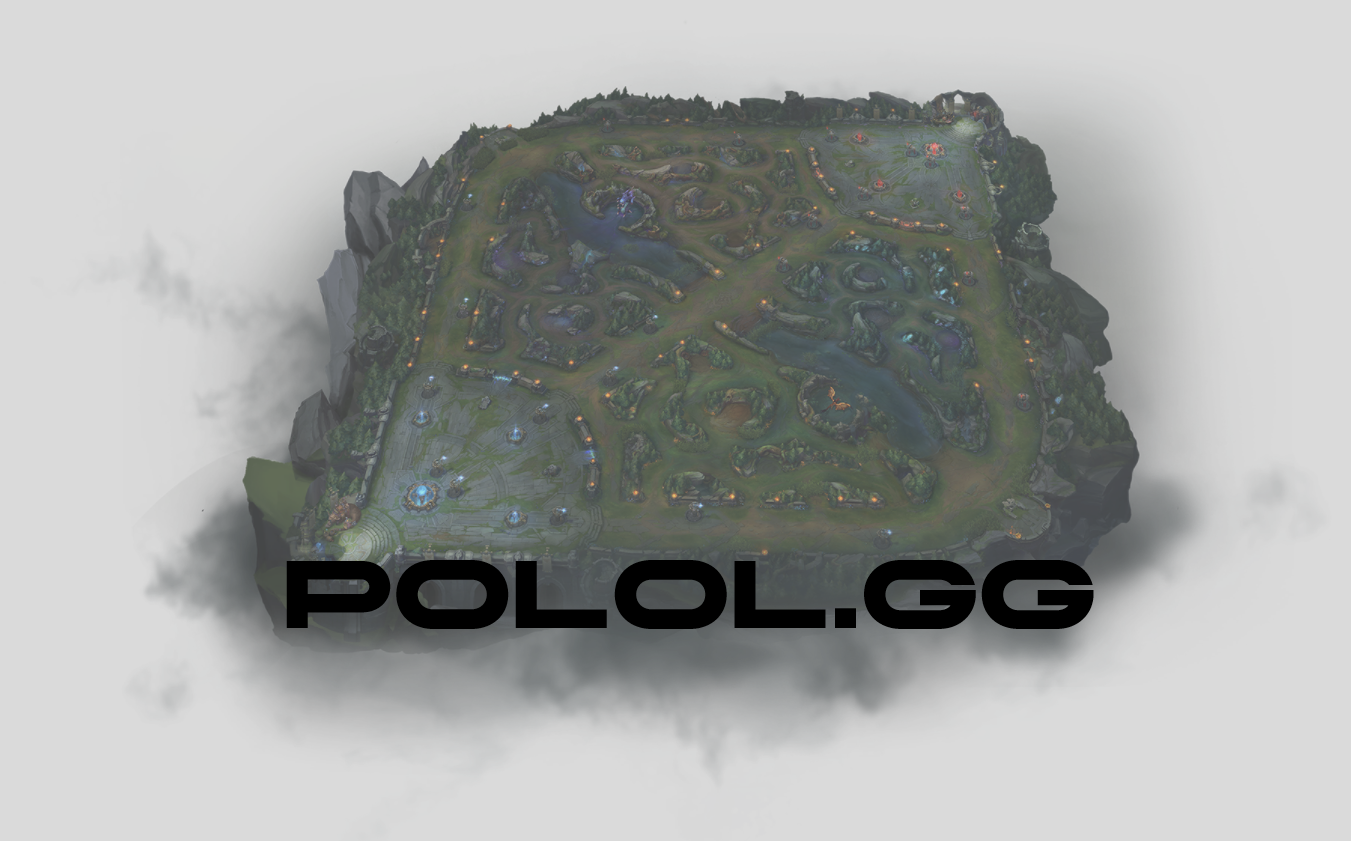
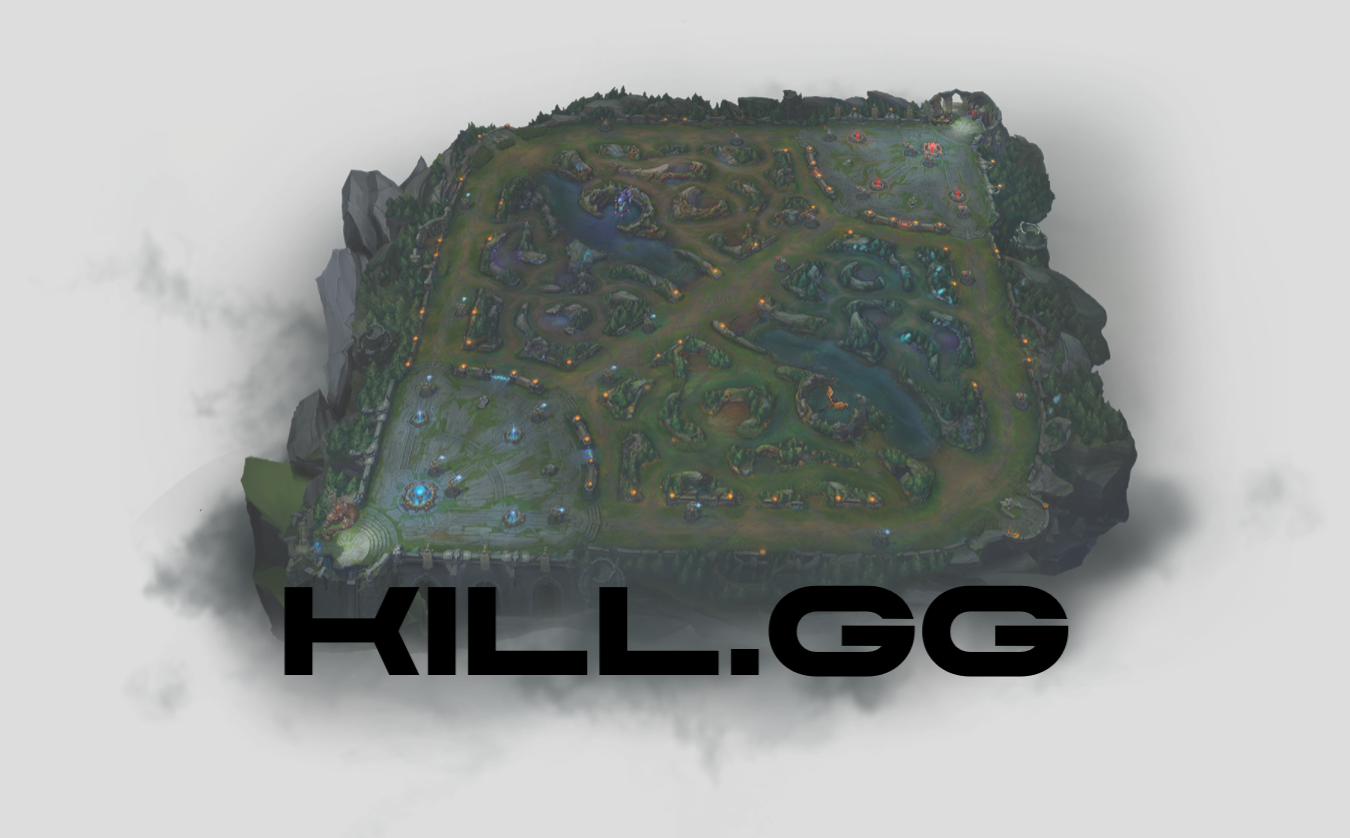
0212
LastChangeToday

diff --git a/src/Components/rank/Table.css b/src/Components/rank/Table.css
@@ -12,12 +12,12 @@
 }
 
 body {
-  background: #dadada;
+  background: #dddddd;
 }
 
 .T_BG {
   display: grid;
-  background: #dadada;
+  background: #dddddd;
   padding-top: 3rem;
   /* justify-content: space-between; */
   align-items: center;
@@ -40,36 +40,36 @@ body {
   transition: 1s;
 }
 
-.T_BG .T1{
+.T_BG .T1 {
   background-image: url("../../../public/img/00.png");
   background-size: 30rem;
 }
-.T_BG .DK{
+.T_BG .DK {
   background-image: url("../../../public/img/11.png");
 }
-.T_BG .GEN{
+.T_BG .GEN {
   background-image: url("../../../public/img/22.png");
 }
-.T_BG .NS{
+.T_BG .NS {
   background-image: url("../../../public/img/33.png");
 }
-.T_BG .LSB{
+.T_BG .LSB {
   background-image: url("../../../public/img/44.png");
 }
-.T_BG .KDF{
+.T_BG .KDF {
   background-image: url("../../../public/img/55.png");
 }
-.T_BG .KT{
+.T_BG .KT {
   background-image: url("../../../public/img/66.png");
 }
-.T_BG .HLE{
+.T_BG .HLE {
   background-image: url("../../../public/img/77.png");
   background-size: 30rem;
 }
-.T_BG .BRO{
+.T_BG .BRO {
   background-image: url("../../../public/img/88.png");
 }
-.T_BG .DRX{
+.T_BG .DRX {
   background-image: url("../../../public/img/99.png");
 }
 
@@ -181,7 +181,7 @@ body {
   justify-content: space-between;
   align-items: center;
   padding-left: 2rem;
-  animation-delay: .5s;
+  animation-delay: 0.5s;
 }
 
 .S_1_left {
@@ -317,7 +317,7 @@ body {
   display: flex;
   flex-direction: column;
   align-content: center;
-  background: #dadada;
+  background: #dddddd;
   padding: auto;
 }
 
@@ -539,7 +539,7 @@ body {
   color: #111;
 }
 
-.dropdownBtn:hover{
+.dropdownBtn:hover {
   background-color: transparent;
 }
 

diff --git a/src/Components/players/Cardpage.jsx b/src/Components/players/Cardpage.jsx
@@ -116,12 +116,12 @@ export const Cardpage = () => {
                 </div>
             </div>
             <div className="underForPredict" >
-                <h2 id='underPolo'>POLOL.GG</h2>
+                <h2 id='underPolo'>KILL.GG</h2>
                 <div className="exp">
                     <div className="space"></div>
                     <div className="space1">
-                        <p id='explanation1'>AI를 활용한 LCK 경기 결과 예측 프로그램입니다.</p>
-                        <p id='explanation2'>상업적 이용을 금합니다.</p>
+                        <p id='explanation1'>LCK Match History는</p>
+                        <p id='explanation2'>KILL.GG</p>
                     </div>
                 </div>
             </div>

diff --git a/src/Components/team/teamCSS.css b/src/Components/team/teamCSS.css
@@ -14,7 +14,7 @@
 #container {
   display: flex;
   flex-direction: column;
-  background: #dadada;
+  background: #dddddd;
 }
 .selecTeam {
   display: flex;
@@ -78,7 +78,6 @@
   font-family: "SEBANG_Gothic_Bold";
 }
 .player {
-  
   border-radius: 5px;
   display: flex;
   flex-direction: column;
@@ -129,7 +128,7 @@
   flex-direction: column;
   justify-content: center;
   align-items: center;
-  border: black 2px solid;
+  border: 4px outset #caa299;
   border-radius: 20px;
   width: 450px;
   height: 230px;
@@ -167,7 +166,7 @@
   display: grid;
   grid-template-columns: 60% 40%;
   grid-template-rows: 25% 25% 25% 25%;
-  border: black 2px solid;
+  border: 4px inset #caa299;
   width: 450px;
   height: 230px;
   backface-visibility: hidden;

diff --git a/server/DataBase/ReadDB.js b/server/DataBase/ReadDB.js
@@ -3,7 +3,6 @@
 const CoachDB = require("./DB_Read/CoachDB");
 const TeamDB = require("./DB_Read/TeamDB");
 const PlayerDB = require("./DB_Read/PlayerDB");
-const MatchDB = require("./DB_Read/matchDB");
 const HistoryDB = require("./DB_Read/HistoryDB");
 
 //각 DB 받아오는 부분 여기까지 FIX
@@ -18,12 +17,6 @@ class ReadDB{
   async getPlayer(){
     const DB = new PlayerDB();
     const RD = await DB.Get_PlayerInfo();
-    return RD;
-  }
-
-  async getMatch(){
-    const DB = new MatchDB();
-    const RD = await DB.Get_MatchInfo();
     return RD;
   }
 

diff --git a/src/Components/players/card.css b/src/Components/players/card.css
@@ -1,5 +1,5 @@
 .box {
-  background: #dadada;
+  background: #dddddd;
   background-image: url("../../../public/img/LCK_2.png");
   background-repeat: no-repeat;
   background-position: center;
@@ -7,12 +7,12 @@
   position: relative;
 }
 
-.boxsizeA{
+.boxsizeA {
   transition: 1.5s;
   width: 98vw;
   height: 190vh;
 }
-.boxsizeB{
+.boxsizeB {
   transition: 1.5s;
   width: 98vw;
   height: 235vh;

diff --git a/server/DataBase/DB_Read/TeamDB.js b/server/DataBase/DB_Read/TeamDB.js
@@ -16,7 +16,7 @@ class TeamDB{
   
       const promisePool = connection.promise();
   
-      const [rows] = await promisePool.query('SELECT * FROM polol.team ORDER BY predictrate DESC');
+      const [rows] = await promisePool.query('SELECT * FROM polol.team ORDER BY difference');
       for(let i =0;i < rows.length;i++){
         result[i] = rows[i];
       }

diff --git a/src/Components/home/HomeCSS.css b/src/Components/home/HomeCSS.css
@@ -21,7 +21,7 @@
 
 .wrapper {
   display: flex;
-  background: #dadada;
+  background: #dddddd;
   flex-flow: column nowrap;
   justify-content: space-around;
 }
@@ -134,8 +134,8 @@
 }
 
 .matchBox {
-  border: 2px solid teal;
-  border-radius: 15px;
+  border: 4px outset #caa299;
+  border-radius: 20px;
   width: 32vw;
 }
 
